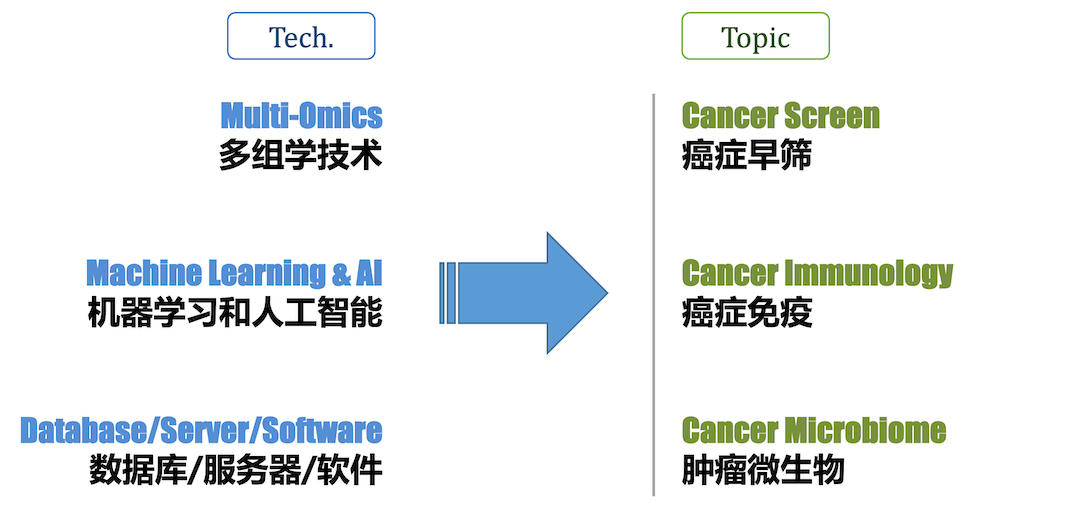
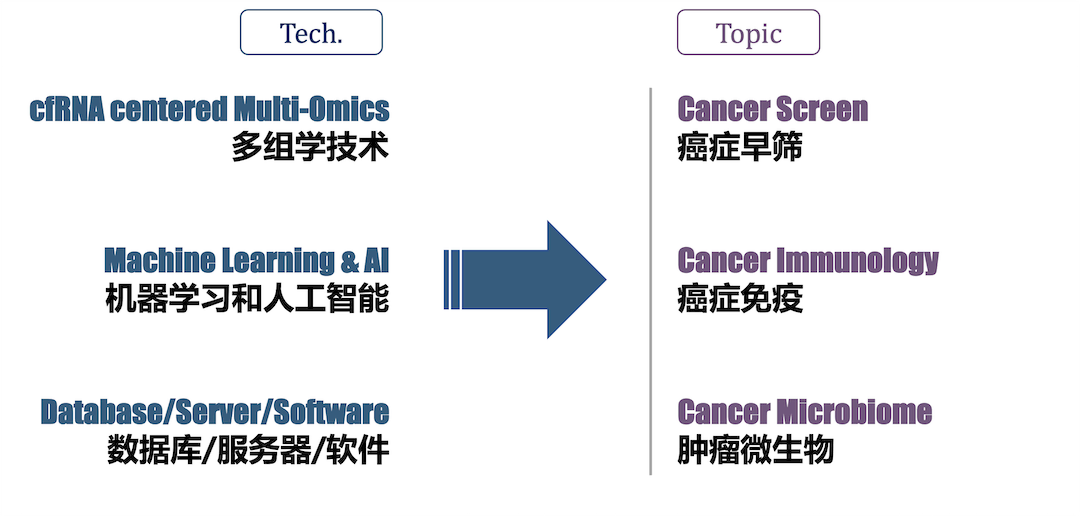
update

diff --git a/docs/home/index.html b/docs/home/index.html
@@ -129,13 +129,13 @@
                 	<h2 class="title text-highlight">What we do</h2>
                 </a>
                 <p class="summary">Our group is interested in developing <b>bioinformatics technologies</b>, and practicing evidence-based <b>precision medicine</b> for diseases like cancer.
-                  We utilize <b>machine learning and AI</b> technologies, together with <b>multi-omics data</b>,
+                  We utilize <b>machine learning and AI</b> technologies, together with <b>RNA</b> centered <b>multi-omics data</b>,
                   to understand how genetic information is encoded in the structured DNA and RNA sequences,
                   and how they interact and regulate each other in a biological system.
                   Ultimately, this will help us understand and cure human diseases, know and improve ourselves.<br>
                   We have two major research directions: <b>A. Precision Medicine; B. Machine Learning & AI.</b>  <br>
                   <br>
-                我们致力于发展<b>生物信息学技术</b>，并探索其在<b>癌症等复杂疾病</b>的<b>精准医疗</b>上的具体实践。我们利用机器学习等<b>人工智能技术</b>，结合<b>多组学数据</b>，来研究遗传信息是如何被编码在结构化的DNA和RNA分子之中，以及它们是如何在一个生命体系中相互作用、彼此调控。<br>
+                我们致力于发展<b>生物信息学技术</b>，并探索其在<b>癌症等复杂疾病</b>的<b>精准医疗</b>上的具体实践。我们利用机器学习等<b>人工智能技术</b>，结合<b>RNA</b>为核心的<b>多组学数据</b>，来研究遗传信息是如何被编码在结构化的DNA和RNA分子之中，以及它们是如何在一个生命体系中相互作用、彼此调控。<br>
                 <i>“上工治未病”，我们的一个重要使命，是帮助人们更早期的发现癌症。</i> 我们相信，这种使命感以及为此付出的实践和努力，将帮助我们理解和治疗人类疾病，并最终认识和提高我们自己。<br>
                 实验室主要有两个研究方向: <b>1.精准医疗；2.机器学习和人工智能</b>。
                 <br>

diff --git a/docs/open/index.md b/docs/open/index.md
@@ -18,7 +18,7 @@ description: Collaborate with us !
 
 鲁志实验室（实验室主页： [http://lulab.life.tsinghua.edu.cn](http://lulab.life.tsinghua.edu.cn)）下属于清华大学生命科学学院，实验室成员包括博士生10余名和本科实习生若干，来自生物学、统计学、计算机科学等多学科。实验室依托于“生物信息学教育部重点实验室”和清华大学“合成与系统生物学研究中心”，拥有很好的人才支撑、硬件平台和合作科研环境。
 
-我们实验室致力于发展**生物信息学技术**，并探索其在**癌症等复杂疾病**的**精准医疗**上的具体应用。我们利用机器学习等**人工智能技术**，结合**多组学**数据，来研究遗传信息是如何被编码在结构化的DNA和RNA分子之中，以及它们是如何在一个生命体系中相互作用、彼此调控。
+我们实验室致力于发展**生物信息学技术**，并探索其在**癌症等复杂疾病**的**精准医疗**上的具体应用。我们利用机器学习等**人工智能技术**，结合**RNA**为核心的**多组学**数据，来研究遗传信息是如何被编码在结构化的DNA和RNA分子之中，以及它们是如何在一个生命体系中相互作用、彼此调控。
 “上工治未病”，我们的一个重要使命，是帮助人们更早期的发现癌症。我们相信，这种使命感以及为此付出的实践和努力，将帮助我们理解和治疗人类疾病，并最终认识和提高我们自己。
 
 实验室负责人鲁志博士 ([个人官方主页](https://cn.bing.com/search?q=%E6%B8%85%E5%8D%8E%E5%A4%A7%E5%AD%A6+%E7%94%9F%E5%91%BD%E5%AD%A6%E9%99%A2+%E9%B2%81%E5%BF%97))，清华大学生命科学学院副教授（tenured）、特别研究员、博士生导师，国家基金委“优秀青年”基金、某青年人才项目、“霍英东”青年基金获得者。鲁志博士近20年来一直致力于非编码RNA相关的生物信息学研究，发表国际重要期刊文章60余篇 ([Pulibcation List](https://www.ncrnalab.org/publications))，包括通讯作者文章30余篇(影响因子 10 分以上的 10余篇, ESI高被引论文3篇)；文章所发表期刊包括 *Science, Nature, Cell, PNAS, e-Life, Genome Biology*等，总引用超过2万次。**我们针对noncoding RNA的近20年的研究经验**和主要成果如下图所示：
